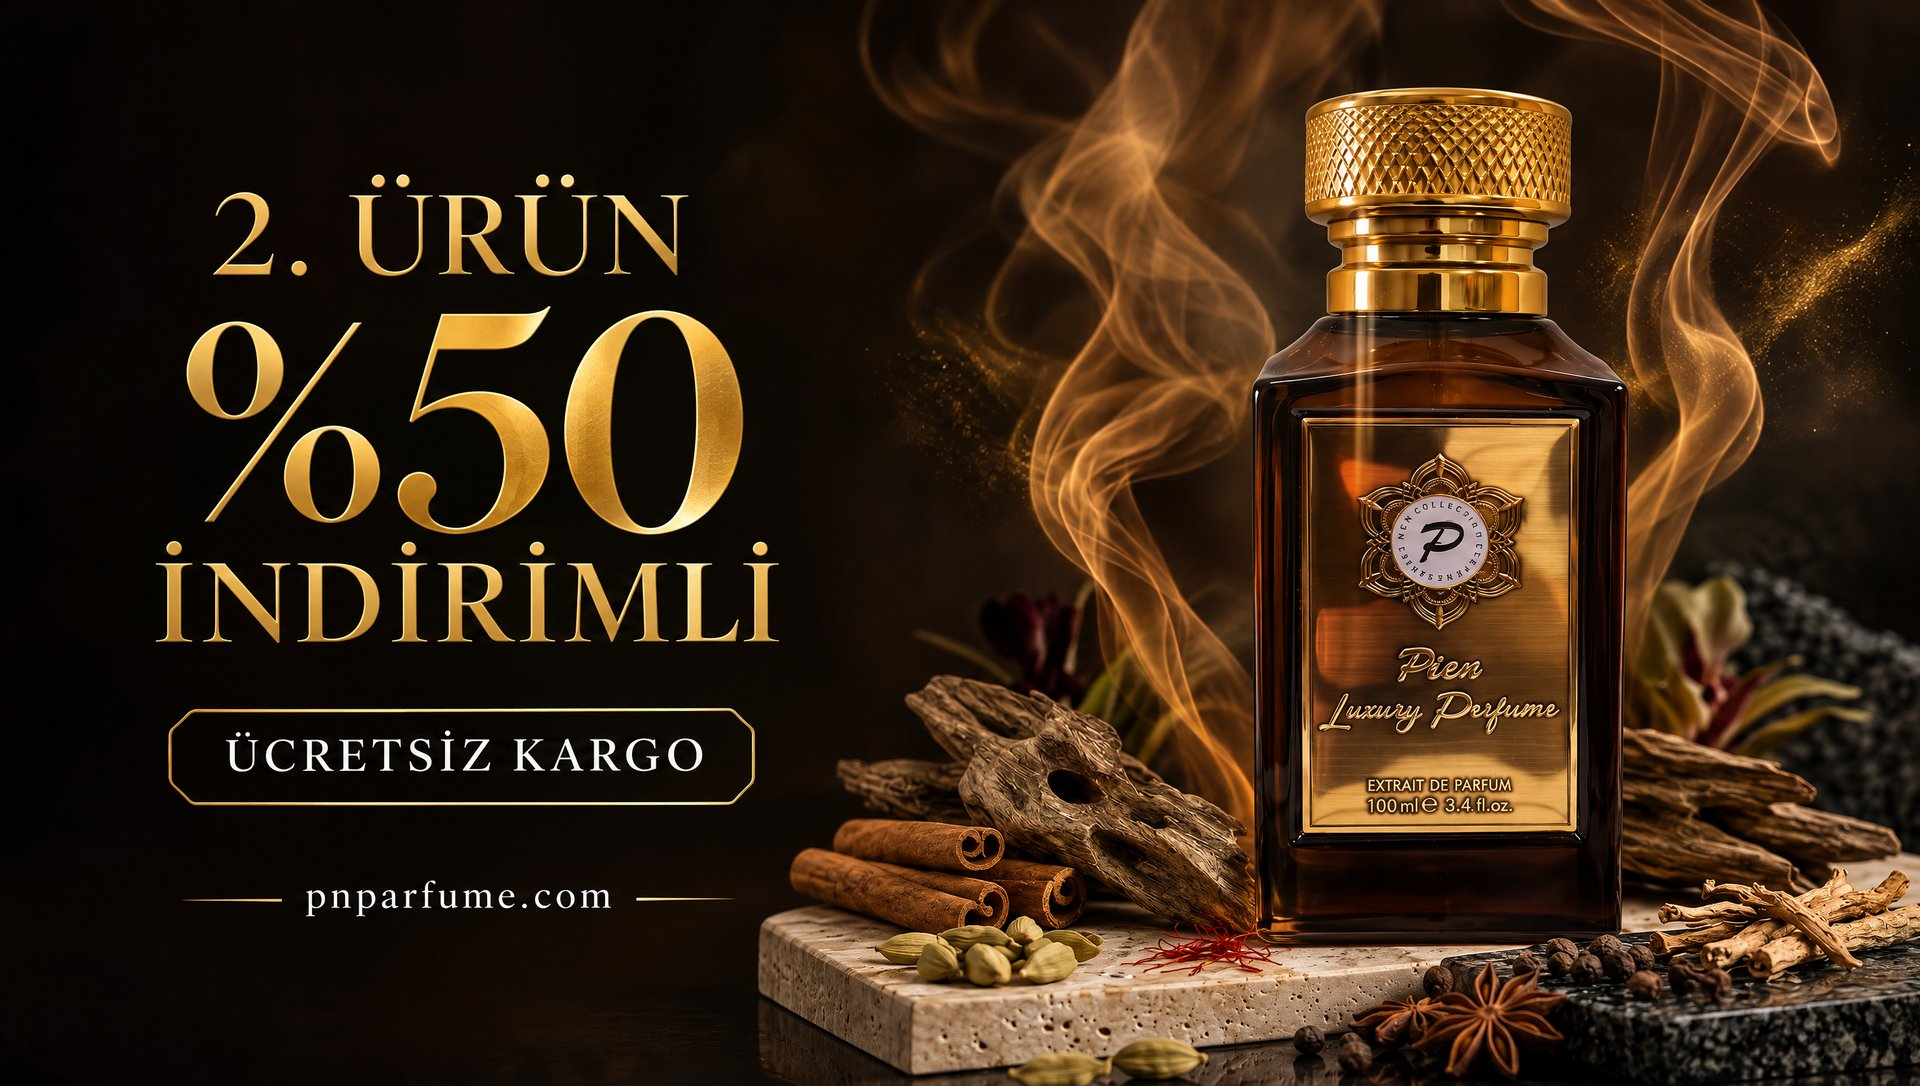
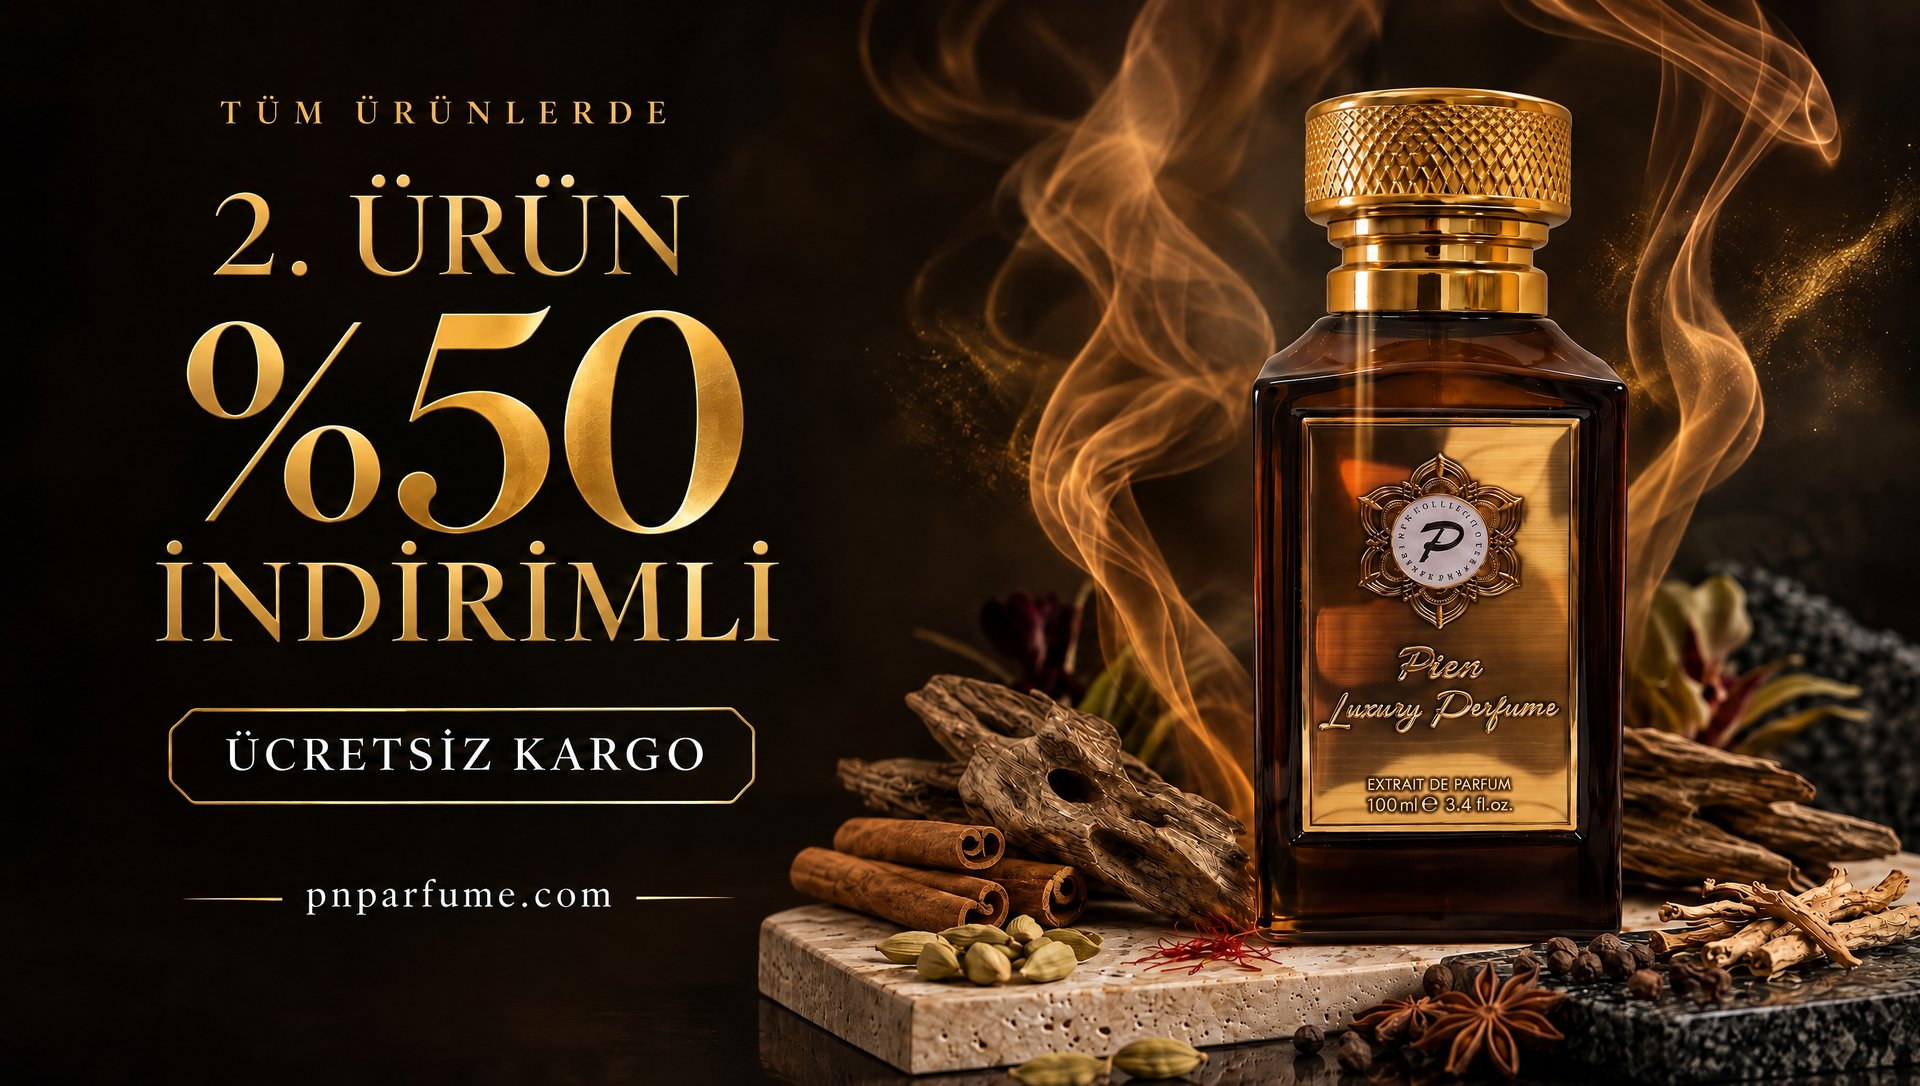
Açılış reklamı: v2 görseller (TÜM ÜRÜNLERDE) ve alt metin

diff --git a/src/components/OpeningAd.tsx b/src/components/OpeningAd.tsx
@@ -54,7 +54,7 @@ export default function OpeningAd() {
     <div
       role="dialog"
       aria-modal="true"
-      aria-label="Kampanya: 2. ürün %50 indirimli, ücretsiz kargo"
+      aria-label="Kampanya: tüm ürünlerde 2. ürün %50 indirimli, ücretsiz kargo"
       className="fixed inset-0 z-[90] flex items-center justify-center bg-black/70 backdrop-blur-sm px-4 py-6"
       onClick={() => setOpen(false)}
     >
@@ -73,7 +73,7 @@ export default function OpeningAd() {
             {/* eslint-disable-next-line @next/next/no-img-element */}
             <img
               src="/kampanya/acilis-mobil-9x16.jpg"
-              alt="2. ürün yüzde 50 indirimli ve ücretsiz kargo: Pien Luxury parfüm kampanyası, pnparfume.com"
+              alt="Tüm ürünlerde 2. ürün yüzde 50 indirimli ve ücretsiz kargo: Pien Luxury parfüm kampanyası, pnparfume.com"
               className="block w-auto h-auto max-w-full max-h-[85vh] md:max-w-[min(90vw,1100px)]"
             />
           </picture>
